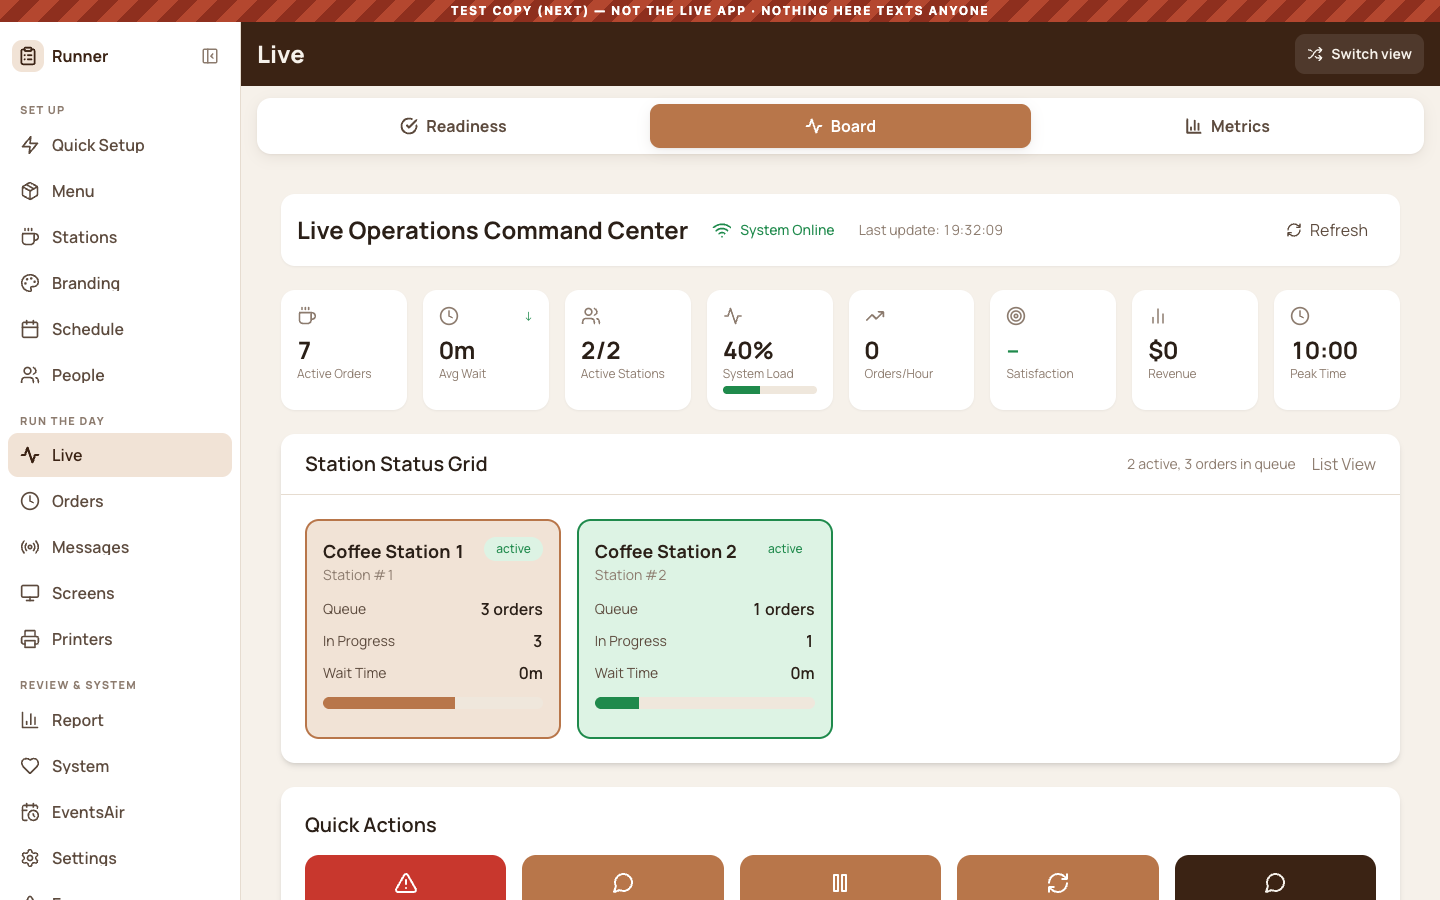
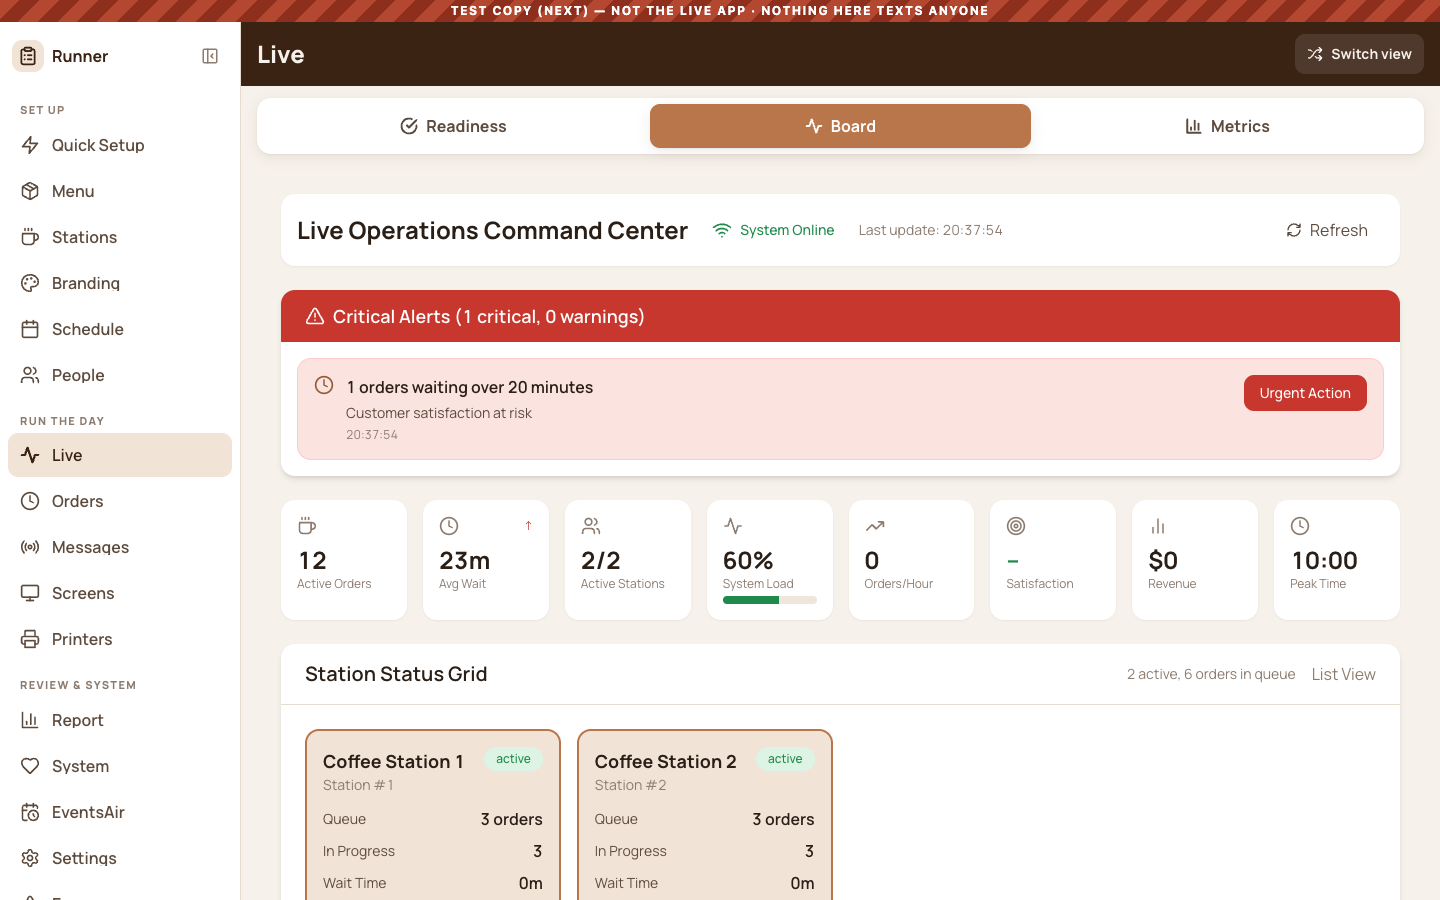
orders: the wait is order to MADE, and Collected stops dying before it reaches the server
Steve, on a 138 minute wait: "I think they would not have stayed for 2 hours,
may have been a test or just an error, maybe just take out the outlier."

It was neither, and nothing needed removing. That coffee was MADE in 5 minutes
and then sat for 133. The metric was measuring created_at -> updated_at, which
is not the wait -- it is the time until somebody tapped Collected. Deleting the
row would have hidden a real signal behind a tidier average.

Steve again, once he saw it: "the real time needs to be from order received and
complete, not necessarily picked up as that is out of baristas control and
person may not even come back." Exactly so. Every wait figure -- the headline
average, the percentiles, the per-station column and the over-20-minutes
warning -- now measures created_at -> completed_at. Time on the shelf is
reported separately, because it answers a different question (are people
hearing that their coffee is ready?) with a different fix.

Treenet re-reads honestly: 5.6 min average to make, half under 4.4, nine in ten
under 11.6, worst 29.5. And SEVEN orders over 20 minutes, not 136. The old
number was 19x too high and had the team looking for a staffing problem that
was not there.

AND THE STUCK BUTTON. Steve: "the baristas were slow to hit collected and
sometimes it seemed like it was stuck and could not select collected despite
picked up." Found it. markOrderPickedUp threw if the order was not in the local
[…]

diff --git a/Barista Front End/src/hooks/useOrders.js b/Barista Front End/src/hooks/useOrders.js
@@ -1789,14 +1789,25 @@ export default function useOrders(stationId = null) {
     }
     
     try {
-      // Check if this is a local order from our localStorage system
-      const orderToPickUp = completedOrders.find(o => o.id === orderId);
-      
-      if (!orderToPickUp) {
-        throw new Error(`Order with ID ${orderId} not found in completed orders`);
-      }
-      
-      const isLocalOrder = orderToPickUp.isLocalOrder || 
+      // Look it up for the optimistic update -- but do NOT require it.
+      //
+      // This used to throw when the order was not in `completedOrders`, BEFORE
+      // any call to the server. Steve, on the Treenet queue: "sometimes it
+      // seemed like it was stuck and could not select collected despite picked
+      // up." That is this. The moment the order left the local list -- a
+      // double tap, a second device, a refresh landing mid-action -- every
+      // further tap threw locally, the card un-hid itself, and the server
+      // never heard a thing. The button looked dead because it was.
+      //
+      // Ids are compared as strings: the API has handed back both numbers and
+      // strings over the years, and === between 42 and "42" is a silently dead
+      // button.
+      const sameId = (a, b) => String(a) === String(b);
+      const orderToPickUp = completedOrders.find(o => sameId(o.id, orderId))
+                         || previousOrders.find(o => sameId(o.id, orderId))
+                         || { id: orderId };
+
+      const isLocalOrder = orderToPickUp.isLocalOrder ||
                           orderId.toString().startsWith('local_order_');
       
       if (isLocalOrder) {
@@ -1836,13 +1847,18 @@ export default function useOrders(stationId = null) {
       // For regular orders, proceed with API call
       const result = await OrderDataService.markOrderPickedUp(orderId);
       
-      if (!result || !result.success) {
+      // "Already picked up" is the goal, not a failure. Two baristas tapping
+      // the same card must both end up with it gone, not with one of them
+      // staring at an error and a card that will not clear.
+      const already = /already|not found|picked ?up/i.test(
+        String(result?.message || ''));
+      if (!result || (!result.success && !already)) {
         const errorMessage = result?.message || 'Unknown error';
         throw new Error(`Failed to mark order as picked up: ${errorMessage}`);
       }
       
       // Optimistically update UI state
-      setCompletedOrders(prev => prev.filter(o => o.id !== orderId));
+      setCompletedOrders(prev => prev.filter(o => !sameId(o.id, orderId)));
       
       const pickedUpOrder = {
         ...orderToPickUp,

diff --git a/routes/consolidated_api_routes.py b/routes/consolidated_api_routes.py
@@ -12361,11 +12361,10 @@ def get_today_report():
 
         # Average wait (created → completed) for completed/picked_up orders today
         _ex("""
-            SELECT AVG(EXTRACT(EPOCH FROM (updated_at - created_at)) / 60.0)
+            SELECT AVG(EXTRACT(EPOCH FROM (completed_at - created_at)) / 60.0)
             FROM orders
             WHERE created_at >= %(d0)s AND created_at < %(d1)s
-              AND status IN ('completed', 'picked_up')
-              AND updated_at IS NOT NULL
+              AND completed_at IS NOT NULL
               AND created_at IS NOT NULL
         """)
         row = cur.fetchone()
@@ -12387,9 +12386,8 @@ def get_today_report():
         # baseline ("expected throughput") for the next event.
         _ex("""
             SELECT station_id, COUNT(*) AS n,
-                   AVG(EXTRACT(EPOCH FROM (updated_at - created_at)) / 60.0)
-                     FILTER (WHERE status IN ('completed', 'picked_up')
-                             AND updated_at IS NOT NULL) AS avg_min,
+                   AVG(EXTRACT(EPOCH FROM (completed_at - created_at)) / 60.0)
+                     FILTER (WHERE completed_at IS NOT NULL) AS avg_min,
                    COUNT(*) FILTER (WHERE status IN ('completed', 'picked_up')) AS done,
                    EXTRACT(EPOCH FROM (MAX(updated_at) - MIN(created_at))) / 3600.0 AS span_hours
             FROM orders
@@ -12590,12 +12588,16 @@ def get_today_report():
             issues.append({'key': 'orders_on_closed_station', 'severity': 'danger', 'count': n,
                            'title': f"{n} active order(s) on a closed/maintenance station",
                            'hint': 'These may never be made — reassign them to an open station.'})
+        # TIME TO MAKE, not time until someone tapped "collected". Measured
+        # on updated_at this said 136 orders at Treenet; measured on
+        # completed_at it is 7. The other 129 were made in minutes and then
+        # sat on the shelf, which is a different problem with a different fix.
         n = _count("SELECT COUNT(*) FROM orders WHERE created_at >= %(d0)s AND created_at < %(d1)s "
-                   "AND status IN ('completed','picked_up') AND updated_at IS NOT NULL "
-                   "AND EXTRACT(EPOCH FROM (updated_at - created_at))/60.0 > 20")
+                   "AND completed_at IS NOT NULL "
+                   "AND EXTRACT(EPOCH FROM (completed_at - created_at))/60.0 > 20")
         if n:
             issues.append({'key': 'long_waits', 'severity': 'warning', 'count': n,
-                           'title': f"{n} order(s) took over 20 minutes",
+                           'title': f"{n} order(s) took over 20 minutes to make",
                            'hint': 'Long waits hurt satisfaction — consider more staff at peak.'})
         n = _count("SELECT COUNT(*) FROM orders WHERE created_at >= %(d0)s AND created_at < %(d1)s AND status = 'cancelled'")
         if n:
@@ -12659,6 +12661,7 @@ def get_today_report():
         # person who waited 40 is the one who remembers it.
         times = {'first': None, 'last': None, 'span_hours': None, 'days': 0,
                  'wait_median': None, 'wait_p90': None, 'wait_worst': None,
+                 'shelf_median': None, 'shelf_worst': None,
                  'per_day': []}
         try:
             # Per LOCAL day, then summed. Taking MIN and MAX across the whole
@@ -12697,11 +12700,10 @@ def get_today_report():
                        percentile_cont(0.9) WITHIN GROUP (ORDER BY w),
                        MAX(w)
                 FROM (
-                    SELECT EXTRACT(EPOCH FROM (updated_at - created_at))/60.0 AS w
+                    SELECT EXTRACT(EPOCH FROM (completed_at - created_at))/60.0 AS w
                     FROM orders
                     WHERE created_at >= %(d0)s AND created_at < %(d1)s
-                      AND status IN ('completed', 'picked_up')
-                      AND updated_at IS NOT NULL
+                      AND completed_at IS NOT NULL
                 ) q
             """)
             r = cur.fetchone()
@@ -12709,6 +12711,27 @@ def get_today_report():
                 times['wait_median'] = round(float(r[0]), 1)
                 times['wait_p90'] = round(float(r[1]), 1)
                 times['wait_worst'] = round(float(r[2]), 1)
+            # TIME ON THE SHELF is its own measurement, not part of the wait.
+            # Steve, on a 138 minute figure: "I think they would not have
+            # stayed for 2 hours, may have been a test or just an error, maybe
+            # just take out the outlier." It was neither, and nothing needed
+            # removing: that coffee was MADE in 5 minutes and then sat for 133.
+            # Deleting the row would have hidden a real signal -- whether people
+            # are hearing that their coffee is ready -- behind a tidier average.
+            _ex("""
+                SELECT percentile_cont(0.5) WITHIN GROUP (ORDER BY s),
+                       MAX(s)
+                FROM (
+                    SELECT EXTRACT(EPOCH FROM (picked_up_at - completed_at))/60.0 AS s
+                    FROM orders
+                    WHERE created_at >= %(d0)s AND created_at < %(d1)s
+                      AND picked_up_at IS NOT NULL AND completed_at IS NOT NULL
+                ) q
+            """)
+            r = cur.fetchone()
+            if r and r[0] is not None:
+                times['shelf_median'] = round(float(r[0]), 1)
+                times['shelf_worst'] = round(float(r[1]), 1)
         except Exception as e:
             logger.warning(f"report times failed: {e}")
 
